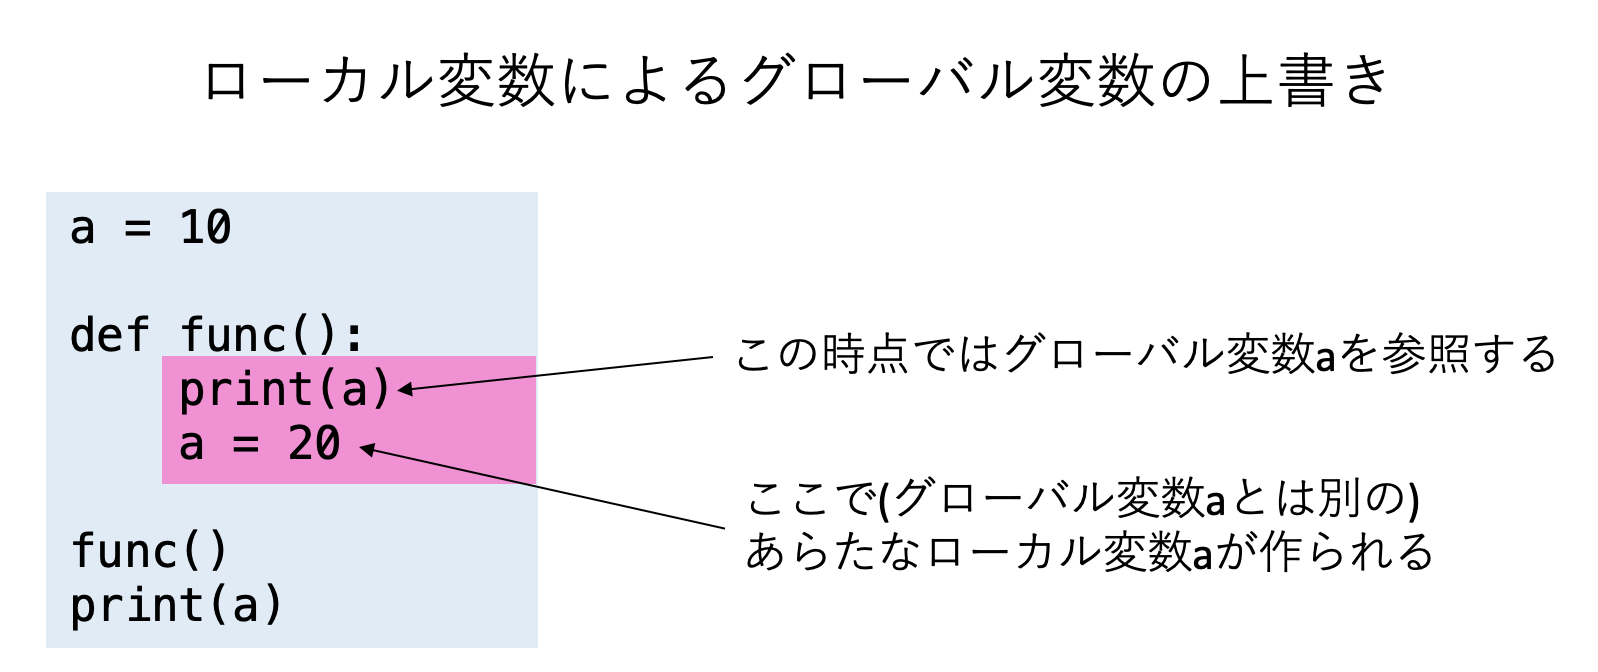
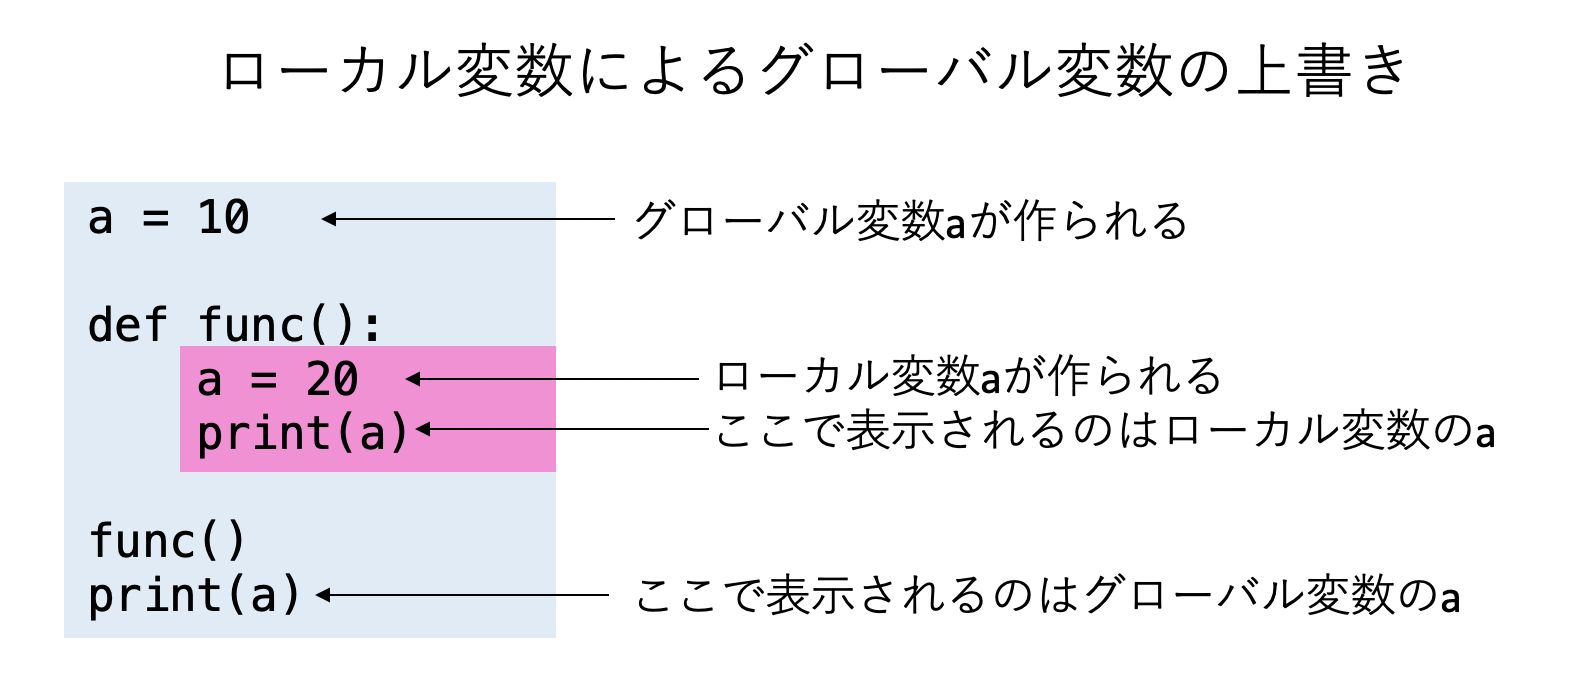
コードと説明が間違っていたのを修正

diff --git a/while/README.md b/while/README.md
@@ -220,8 +220,8 @@ func()
 a = 10
 
 def func():
-  print(a)
   a = 20
+  print(a)
 
 func()
 print(a)
@@ -230,18 +230,12 @@ print(a)
 このコードは
 
 * 最初にグローバル変数`a`に10が代入され、
-* 関数`func`内で変数`a`を表示し、
-* 関数`func`内で変数`a`に20が代入され、
+* 内部で変数`a`に20が代入して表示する関数`func`を実行し、
 * 最後に`a`の変数の値を表示する
 
 プログラムである。どんな結果になるか想像できるだろうか？
 
-結果は、
-
-* `func`内で実行されたprint文は10を表示し、
-* その後のグローバルスコープで実行されたprint文も10を表示
-
-する。これは、関数`func`内で`print(a)`した時には`a`はグローバル変数として扱われているが、その後`a=20`が実行された時に、「新たなローカル変数`a`が定義され、それに20が代入された」と解釈されるためである。
+実はこのコードでは、関数`func`を実行しても、グローバル変数の値は変更されない。これは`a=20`が、関数`func`内のローカル変数の宣言とみなされるからだ。
 
 ![ローカル変数によるグローバル変数の上書き](fig/scope2.png)
 
@@ -252,11 +246,11 @@ a = 10
 
 def func():
   global a # 変数aがグローバル変数であることを宣言する
-  print(a)
   a = 20
+  print(a)  #=> 20
 
 func()
-print(a)
+print(a) #=> 20
 ```
 
 実行すると、関数内でグローバル変数`a`の値を書き換えることができたことがわかる。
